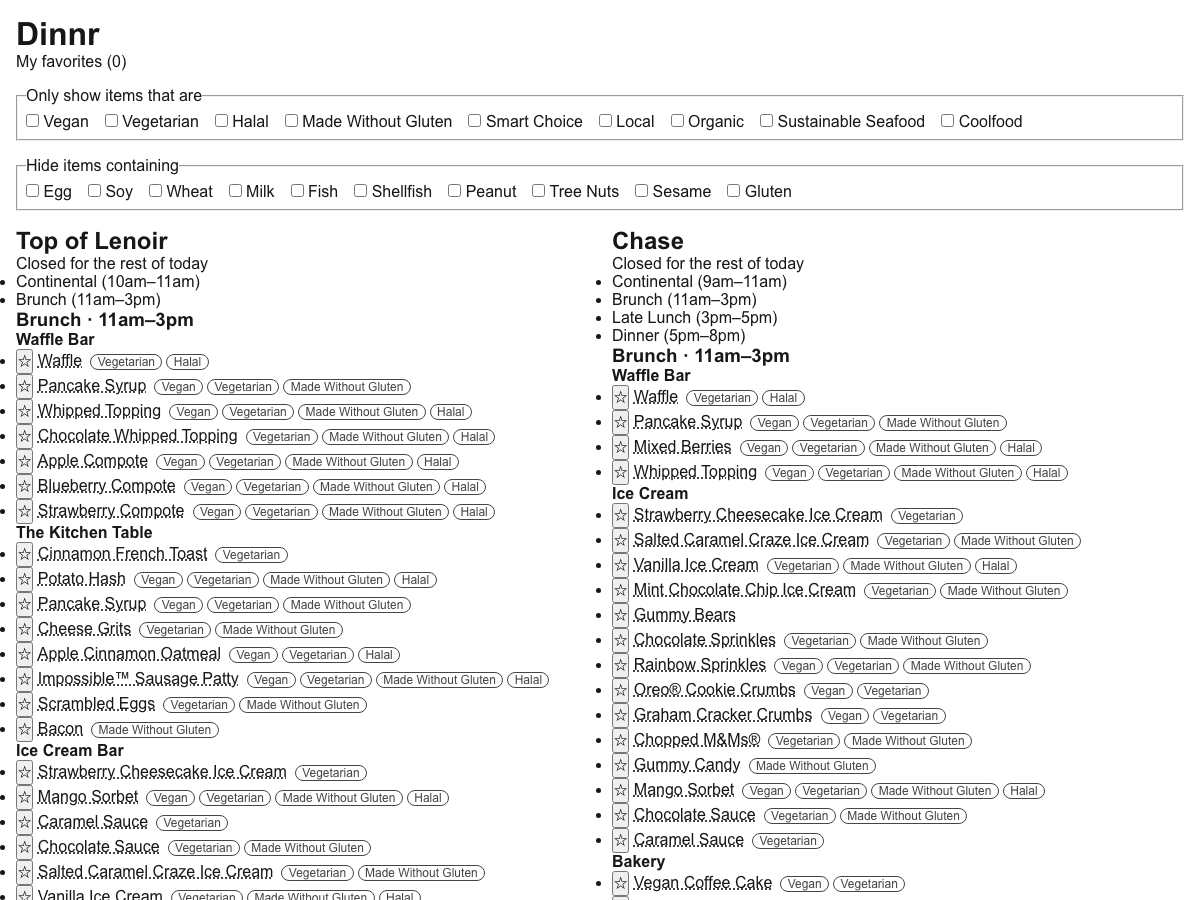
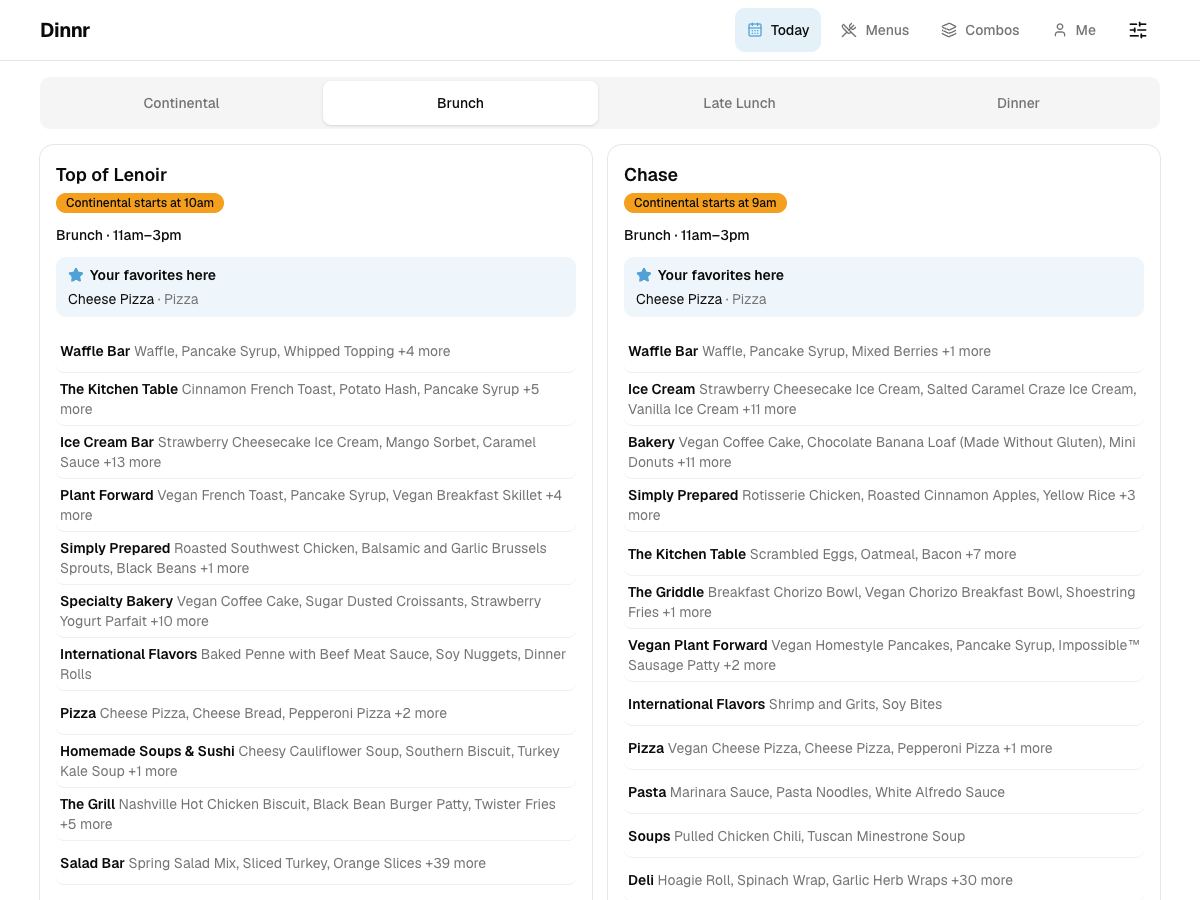
Refresh the README screenshot with the new Today screen (#30)

diff --git a/README.md b/README.md
@@ -5,11 +5,10 @@ filter by diet and allergens, and get item combinations that hit your macro goal
 
 **Live app:** <https://dinnr-unc.vercel.app> (deployment: [`docs/deploy.md`](docs/deploy.md))
 
-![Dinnr showing Top of Lenoir and Chase side by side for Brunch](docs/screenshot-today.png)
+![Dinnr's Today screen: Top of Lenoir and Chase side by side for Brunch, with a starred favorite](docs/screenshot-today.png)
 
-<sub>Screenshot of a local run, with the database filled by a scrape of the saved fixture pages
-(Saturday 2026-11-07). Only four recipes have saved nutrition responses, so most items show no
-macros here. In production every item has them.</sub>
+<sub>The Today screen on a local run, with the database filled by a scrape of the saved fixture
+pages (real menus captured Saturday 2026-11-07).</sub>
 
 ## Why
 
